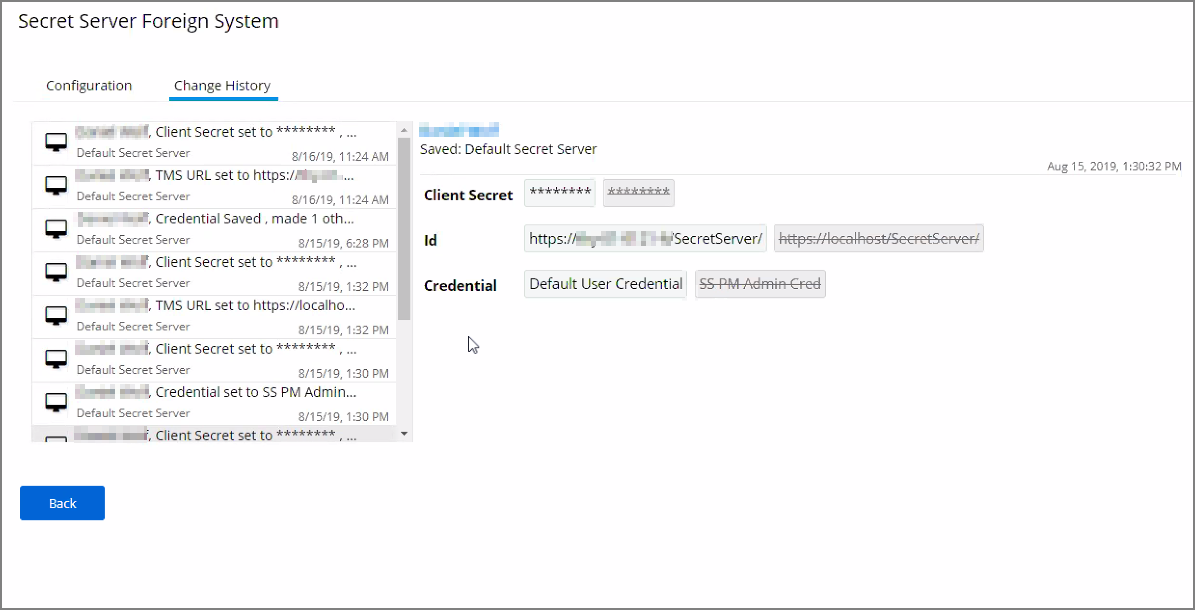
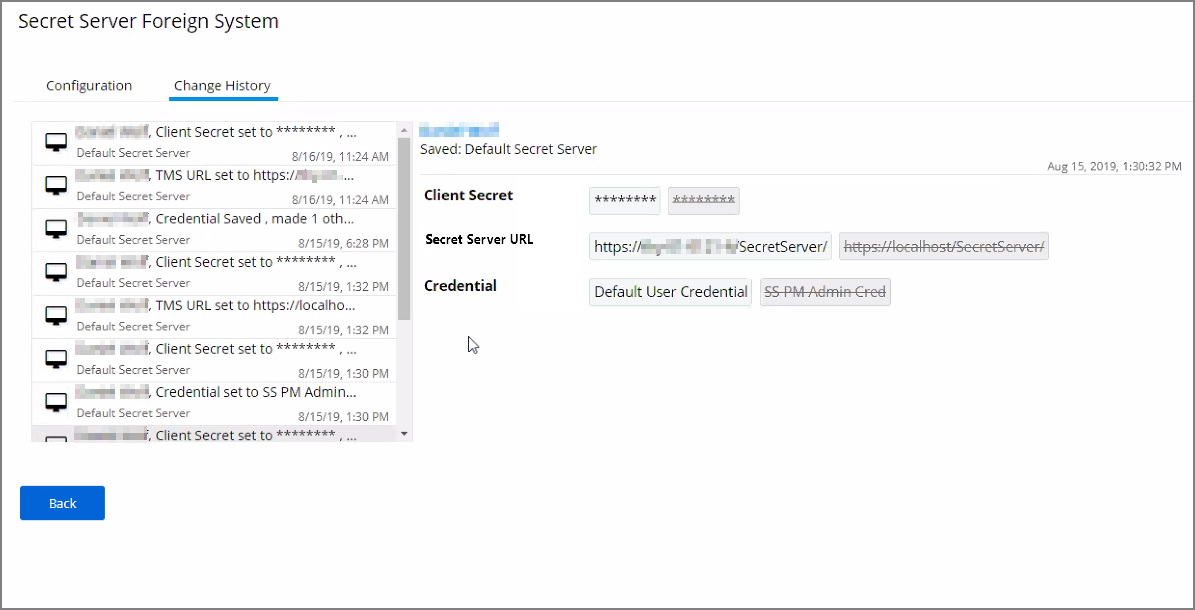
Friday PM commit

Changed region(s): [[0.3406, 0.3738, 0.8669, 0.4984], [0.4335, 0.2803, 0.6192, 0.3426]]

diff --git a/ui/ui-config-history.md b/ui/ui-config-history.md
@@ -1,4 +1,4 @@
-[title]: # (- History Tab)
+[title]: # (> History Tab)
 [tags]: # (user interface,console,overview)
 [priority]: # (2110)
 # History Tab
@@ -7,12 +7,12 @@ The Change History tab is accessible via:
 
 * __Admin | Configuration__ – listing all changes made to Advanced, Discovery, and Reputation item configuration settings.
 * __Admin | Policies__ – listing all changes made to policies.
-* Admin | More and then
-  * __Filters__ – listing all changes made to filters.
-  * __Actions__ – listing all changes made to actions.
-  * __Resources__ – listing all changes made to resources.
-  * __Tasks__ – listing all changes made to tasks.
-* __Tools | File Upload__ – listing all file uploads.
+* Admin | More and then (for the default menu, might differ if customized)
+  * __Filters__ – listing all changes made to a specific filter.
+  * __Actions__ – listing all changes made to a specific action.
+  * __Resources__ – listing all changes made to a specific user editable resource. Meaning resources that are not user editable, like a file extension, do not have a history change tab.
+  * __Tasks__ – listing all changes made to a specific task.
+<!--  * __Tools | File Upload__ – listing all file uploads. -->
 
 Once the tab is selected, it opens a two-column page. On the left all recorded changes are listed with the newest record on top. This left column data provides a summary of the changes:
 
@@ -23,73 +23,42 @@ Once the tab is selected, it opens a two-column page. On the left all recorded c
 
 ## Looking at Details
 
-The following image shows an example of the change history for a foreign system entry. The change shows that the foreign system was pointed at another URL.
+The following image shows an example of the change history for a foreign system entry. The change shows that the foreign system was initially pointed at the local host URL, with a Credential and Client Secret pertaining to that localhost instance. An update was made to configure a real Secret Server instance URL with accompanying changes of Client Secret and Credential to be able to authenticate against that new URL.
 
 ![Change History for Foreign Systems](images/config-history/change-hi-tab-fs-2.png)
 
 ### Drilling Down
 
-To look at details of any given change, select one of the change entries in the left column. Our example shows changes made to an action. Also,
+To look at details of any given change, select one of the change entries in the left column. For the example we created a policy to deny the installation of iTunes on Windows endpoints. 
 
-![](images/config-history/change-hi-tab-details.png)
+![Details on the Change History](images/config-history/change-policy-1.png)
 
-Looking at the first entry at 1:26 PM, we see that a change occurred. Selecting
-the entry provides a summary in the right column providing a further link for
-more details.
+What we see:
 
-![](images/config-history/change-hi-tab-det1.png)
+1. Information about the system and user initiating the change, here WIN-...\TestAdmin and information about the type of change, here Created from template.
+1. The name of the item that was created from template, the date and time when the change ocurred.
+1. Details on the summary information from the left, such as a link to view the user details and what change was done to which item.
 
-Using the link, opens the __Resource Explorer__, which defaults to showing
-__Summary__ information:
+The next screen shows a state change due to the policy being saved. The State\ResourceTargetIds are being saved for the first time for this policy.
 
-* Name – this is the user account that made the change.
-* Created – indicates when the item was created.
-* Modified – indicates when the item was last modified.
+![Change History on item save](images/config-history/change-policy-2.png)
 
-![](images/config-history/change-hi-tab-det2.png)
+The last entry in the Change History list provides all the details about the change to the policy after initial creation and save.
 
-For this example, we conclude from this change history, that the Action __QA
-Deny File Access Action__ is newly created. The down pointing arrows next to
-Known Data, Events, and Associations can be expanded to gain more insight into
-any given change.
+![Change History on item save](images/config-history/change-policy-3.png)
 
-Back at the Change History tab for this action, we select the latest recorded
-change from the left column. The change details indicate that DenyWrite and
-DenyRead for the action where changed from False to True and we see the
-FilePath.
+What we see:
 
-![](images/config-history/change-hi-tab-det3.png)
-
-We click the link to access the Resource Explorer. Under __Known Data__ we can
-explore the information for __Security Management | Global Account Details__.
-
-![](images/config-history/change-hi-tab-det4.png)
-
-Users can select the View from the drop-down and see information on
-
-* AccountDomain – identifies the domain for the user account.
-* Description
-* IsBuiltin – can be true false to indicate if the account in built-in or not.
-* Name – Name associated with the user account.
-* Rid
-* SID
-
-Selecting the Global Windows Users information shows Name, Domain, and UserId.
-
-Under __Events__, we can see __Infrastructure | Resource Discovery__
-information:
-
-![](images/config-history/change-hi-tab-det5.png)
-
-Under __Associations__ we can see __Group Membership__:
-
-![](images/config-history/change-hi-tab-det6.png)
+1. The left-hand summary indicates that Application targets were set to iTunes and three other changes were made.
+1. Application targets (+) iTunes indicates that iTunes was added as an Application target. A (-) would indicate a removal of an application target.
+1. ApplyToResourcesSettings\AllowedTargetRoleTypeId indicated that the previous zero value Id was changed to a value of Computer.
+1. The State\ResourceTargetIds field was populated with the value All Windows Computer with Application Control Agent Installed (Target).
+1. The last change was setting the policy Enabled state to True.
 
 ## Item Change History Report
 
-The __Item Change History Report__ is part of the __Diagnostic__ group on the
-Reports page. You can also search for “change history” and the report will be
-listed on the search results page. Click the link to access the report.
+_TODO: NEW SCREEN CAPTURE of working report with real data._
+The __Item Change History Report__ is part of the __Diagnostic__ group on the Reports page. You can also search for “change history” and the report will be listed on the search results page. Click the link to access the report.
 
 The report lists the history of item changes.
 

diff --git a/reports/reports-queries.md b/reports/reports-queries.md
@@ -1,0 +1,83 @@
+[title]: # (Reports and Queries)
+[tags]: # (overview)
+[priority]: # (7001)
+# Introduction
+
+Each report in Privilege Manager runs a SQL query to return the results. The application does a great job opening the existing queries it uses and generating resolved queries to be used for testing.
+
+This makes it very easy to run Privilege Manager reports – including custom reports – outside of the application in SQL Server Reporting Services, SQL Server Management Services, or your favorite tool.
+
+This topic gives an overview of finding and using the reports and SQL queries built-in to Privilege Manager.
+
+## View the Existing Reports in Privilege Manager
+
+Most users are probably familiar with the main Reports section of Privilege Manager, which is accessible from the menu at the top of any page. This page includes many common reports. There is a __Select Report Options__ button on this page that allows a user to remove reports from this list.
+
+There are many more reports in the product.
+
+To view all the reports in Privilege Manager, navigate to the __ADMIN | Folders | Reports__ tab to see all the reports in a folder tree structure.
+
+![Reports folder tree](images/reports/532d82df04b131cb36a6ed55be309b90.png)
+
+Expand the folder tree to explore the canned reports.
+
+For example, to access the __Application Justification Summary Details Report__, navigate to __Reports | Resource Reports | Resource List Reports | Application Control | Data Class Reports__ and select the __Application Justification Summary Details Report__.
+
+![Example Application Justification Summary Details Report](images/reports/bf3f6267bea061192caebbe4d8855be5.png)
+
+## Determine the SQL Query Object Used by a Report
+
+Every report in Privilege Manager is a single XML object and references a separate XML object that contains the SQL query. By viewing the report object's XML, the SQL query object can be determined.
+
+To view the report as an XML object, change the URL from:
+
+`[Your_TMS_URL]/PrivilegeManager/#/item/__view__/9ba09fa5-ea7e-4352-8400-8eb58b8e41f9`
+
+to:
+`[Your_TMS_URL]/PrivilegeManager/\#/item/__xml__/9ba09fa5-ea7e-4352-8400-8eb58b8e41f9`
+
+![XML view of report](images/reports/e51fd84c2e57e1ac7b0d5e2d0fb34856.png)
+
+Viewing an item as XML helps in determining what folder it is located in (which will be explained in more detail below). Viewing a report as XML also reveals the XML object for the SQL query.
+
+Use your mouse to hover over the guids in the XML to reveal the name of each guid's object. Within the section for ChildAssociations, there will an association for the Report's DataSource. Hovering over the guid for the AssociatedItemId before the Report's Datasource will reveal the report's query.
+
+In the screenshot below, hovering over the guid is 9a3d82a3-c7be-47cc-aa1c-48acc7964620 identified that item as the __Application Justification Summary Details Report Query__.
+
+![GUID hover example](images/reports/f3d961ec9ab5548a433b2feb94f3e3f2.png)
+
+Clicking on this guid will open the XML for the query object in another tab on this same screen:
+
+![Open XML of query object](images/reports/579dda448f0d3b2bc9424ab0454c888b.png)
+
+The XML object for the query includes the direct SQL query that the application runs. However, viewing the query in Privilege Manager will give better query results to work with.
+
+## View the SQL Query in Privilege Manager
+
+The SQL queries can be viewed in Privilege Manager under __ADMIN | Folders__, but it will be helpful to know the folder in which a specific query is located. In the XML object for query, hover over and click on the guid for the FolderId.
+
+![FolderId look up](images/reports/ef0945fb3ccf591adfebc852a04fb3d2.png)
+
+This will open the XML for the folder in which the query is contained. Click on the FolderId to open the XML for its parent folder, and continue until reaching the root folder – which will not have a FolderId attribute. For the SQL queries, the root folder is Queries.
+
+![Root folder](images/reports/b386d777773360a8eb7c44fe3334467f.png)
+
+This XML view now shows the full folder location of this specific query: __Queries | Report Queries | Application Control__.
+
+### Access the Query from the Folder View
+
+Navigate to __ADMIN | Folders__ and select the Reports tab. From the View pull-down, select the Queries View. Then navigate the folder structure determined above: __Queries | Report Queries | Application Control__. Select the Application Justification Report Query from the center pane.
+
+![Opening the report query from the folder view](images/reports/ccfc56dcd0aa64a25ccb3352c22fce4e.png)
+
+View this query object. The Query tab will show the SQL query that the application runs. This is the same query that appears in the XML of the object.
+
+### Obtain a Resolved Query
+
+The Resolved Query tab will give queries that can be used directly on the database to return the similar results that the application receives when it runs the query in the object. This makes it easy to run these queries – or customization of them – in SQL Server Reporting Services.
+
+On the Resolved Query tab, checking the box to __Show Output as Executable Anonymous Block__ will assign values to the Parameters the query uses. For the __Value Set__ pull-down, select __Test__ to assign the Parameters with appropriate values to run this query directly on your database.
+
+![Obtaining a resolved query](images/reports/94fd3a8b59bdb60252cd73378f0b33e1.png)
+
+Click __Copy To Clipboard__ and then paste the resolved query in SSRS, SSMS, or your favorite tool.

diff --git a/install/agent-inst-win.md b/install/agent-inst-win.md
@@ -15,7 +15,7 @@ There are three agents available for Windows endpoints:
 
 This bundled EXE installer is recommended when installing Privilege Manager on machines one at a time, for deployments through software delivery see the next section. This installer includes all Privilege Manager Agents for Windows machines (Core, ACS, LSS). You can use this installer directly on individual endpoints for testing or for production environments in either 32-bit or 64-bit environments:
 
-* Bundled Agent Installer: https://tmsnuget.thycotic.com/Software/Agents/ThycoticAgentsInstaller_x86_10_6_1080.exe
+* Bundled Agent Installer: https://tmsnuget.thycotic.com/software/Agents/ThycoticAgentsInstaller_x86_10_6_1080.exe
 
 ## Individual Agent Installers for Privilege Manager
 
@@ -24,11 +24,11 @@ This bundled EXE installer is recommended when installing Privilege Manager on m
 Individual Windows agents are available in MSI format for easier bulk-rollout through software delivery tools. For installing individual agents, begin with the Core Thycotic Agent:
 
 * __Core Thycotic Agent (x64)__:
-  https://tmsnuget.thycotic.com/Software/Agents/ThycoticAgent_x64_10_6_1080.msi
+  https://tmsnuget.thycotic.com/software/Agents/ThycoticAgent_x64_10_6_1080.msi
 * __Application Control Agent (x64)__:
-  https://tmsnuget.thycotic.com/Software/Agents/Thycotic_ApplicationControlAgent_x64_10_5_1080.msi
+  https://tmsnuget.thycotic.com/software/Agents/Thycotic_ApplicationControlAgent_x64_10_5_1080.msi
 * __Local Security Solution Agent (x64)__:
-  https://tmsnuget.thycotic.com/Software/Agents/Thycotic_LocalSecurityAgent_x64_10_6_1025.msi
+  https://tmsnuget.thycotic.com/software/Agents/Thycotic_LocalSecurityAgent_x64_10_6_1025.msi
 
 #### Installation Command Lines
 
@@ -53,11 +53,11 @@ Individual Windows agents are available in MSI format for easier bulk-rollout th
 Individual Windows agents are available in MSI format for easier bulk-rollout through software delivery tools. For installing individual agents, begin with the Core Thycotic Agent:
 
 * Core Thycotic Agent __(x86)__:
-  https://tmsnuget.thycotic.com/Software/Agents/ThycoticAgent_x86_10_6_1080.msi
+  https://tmsnuget.thycotic.com/software/Agents/ThycoticAgent_x86_10_6_1080.msi
 * Application Control Agent __(x86)__:
-  https://tmsnuget.thycotic.com/Software/Agents/Thycotic_ApplicationControlAgent_x86_10_6_1080.msi
+  https://tmsnuget.thycotic.com/software/Agents/Thycotic_ApplicationControlAgent_x86_10_6_1080.msi
 * Local Security Solution Agent __(x86)__:
-  https://tmsnuget.thycotic.com/Software/Agents/Thycotic_LocalSecurityAgent_x86_10_6_1025.msi
+  https://tmsnuget.thycotic.com/software/Agents/Thycotic_LocalSecurityAgent_x86_10_6_1025.msi
 
 #### Installation Command Lines
 

diff --git a/ui/ui-resource-explorer.md b/ui/ui-resource-explorer.md
@@ -1,0 +1,39 @@
+[title]: # (- Resource Explorer)
+[tags]: # (details)
+[priority]: # (2110)
+# Resource Explorer
+
+When you are looking at change history for any item and click the view user link, you access the __Resource Explorer__.
+Which defaults to showing __Summary__ information pertaining to that specific user resource:
+
+* Name – this is the user account that made the change.
+* Created – indicates when the item was created.
+* Modified – indicates when the item was last modified.
+
+The resource explorer is providing information about the current state of a resource.
+
+![](images/config-history/change-hi-tab-det2.png)
+
+Under __Known Data__ we can explore the information for __Security Management | Global Account Details__.
+
+![Known Data](images/config-history/change-hi-tab-det4.png)
+
+Users can select the View from the drop-down and see information on the type of the resource. The type of known data can be different based on resource type, or based on events discovered on endpoints, for example:
+
+* AccountDomain – identifies the domain for the user account.
+* Description
+* IsBuiltin – can be true false to indicate if the account in built-in or not.
+* Name – Name associated with the user account.
+* Rid
+* SID
+
+Selecting the Global Windows Users information shows Name, Domain, and UserId.
+
+Under __Events__, we can see __Infrastructure | Resource Discovery__
+information:
+
+![Events](images/config-history/change-hi-tab-det5.png)
+
+Under __Associations__ we can see related items, such as __Group Membership__, which is based on the users credentials:
+
+![Associations](images/config-history/change-hi-tab-det6.png)

diff --git a/install/upgrades.md b/install/upgrades.md
@@ -3,6 +3,16 @@
 [priority]: # (700)
 # Product Upgrades
 
+Once Privilege Manager is installed on a server, updates can be performed by pointing the web.config file to the product NuGet source.
+
+1. Navigate to `C:\inetpub\wwwroot\TMS\` and right-click the web.config file.
+1. Select Edit from the drop-down.
+1. Verify the following line with correct NuGet source is present:
+
+   ```xml
+   <add key="nuget:source:SolutionCentre" value="http://tmsnuget.thycotic.com/nuget/" />`
+   ```
+
 <!-- TODO add missing information
 * reference correct SecretServer version for combined installs
 * update all version references
@@ -38,7 +48,7 @@ Follow these steps to perform an offline upgrade for Privilege Manager and Secre
 Note: The TMS setup page requires authentication with a Windows account that is a Local Administrator of the Web Server
 1. You may see a page that looks like the image below.  If so, click the Use Local (Cached) Product Options Button
 1. IMPORTANT: Do not ignore this step, even if you see the list of products:
-   1. Open the web.config file in the TMS web folder (`C:>inetpub>wwwroot>TMS>`"Web" or "Web.config"), right click and open with Notepad, Run as Administrator
+   1. Open the web.config file in the TMS web folder (`C:\inetpub\wwwroot\TMS\`"Web" or "Web.config"), right click and open with Notepad, Run as Administrator
    1. Delete the line that says: `<add key="nuget:source:SolutionCentre" value="http://tmsnuget.thycotic.com/nuget/" />`
    1. Replace with your offline nugetCache directory file path. (For example: `<add key="nuget:source:SolutionCentre" value="C:\ProgramData\NugetCache\")`
    1. Save the web.config file

diff --git a/policies/bl-iTunes-file-up.md b/policies/bl-iTunes-file-up.md
@@ -9,13 +9,21 @@ First create the iTunes filter by using downloaded iTunes files:
 
 1. On the Application Control dashboard home page, select the __Upload File__ tile.
 1. Browse to select file (i.e. the iTunes installer), click __Upload File__.
+
+   ![Upload a File](images/block/file_upload.png)
 1. When the file successfully uploads, choose __Go to File Details__.
-1. Click __Add New Filter__. Check the Filter criteria you want to block like the File Name, the Original File Name, and the Product Name.
+
+   ![File uploaded successfully](images/block/file_upload_2.png)
+1. Click __Add New Filter__. 
+
+   ![Add the new Filter](images/block/file_upload_3.png)
+1. Check, modify, and/or enter the Filter criteria you want to block like the File Name, the Original File Name, and the Product Name.
 1. Click __Create__.
 
 Next create the iTunes Blacklist Policy:
 
 1. Click on the __Deny (Blacklist) Applications__ tile on the Application Control dashboard.
+1. Click __Create a New Policy__.
 1. Select a __Platform__, then __Blacklist: Deny Specific Applications__.
 1. Add Name and Description, click __Create__.
 1. In the __Advanced Policy View__ under the __Conditions__ tab, select __Edit__.

diff --git a/ui/ui-config-roles-user-credentials.md b/ui/ui-config-roles-user-credentials.md
@@ -9,3 +9,6 @@ The role for the Privilege Manager Administrator gives permissions to manage all
 
 For integrations with Secret Server keep in mind that Privilege Manger has the ability to use Secret Server as its storage container for credentials. This includes credentials for connecting to integrated systems such as Service Now, as well as credentials for local accounts that are managed by Local Security in Privilege Manager. Customers can choose to integrate with Secret Server only (no Vault setup) or Secret Server and Vault. Either option requires Authentication Data setup for Foreign Systems in Privilege Manager. Refer to the [Setting up Integration between Privilege Manager and Secret Server](../integration/set-up-pm-ss-integration.md) topic.
 
+## Create User during Installation
+
+During the installation process the Create User page is where you enter information for the initial Privilege Manager Administrator user. Please remember these credentials as they are necessary to login to the web application after you complete the installation.

diff --git a/reports/index.md b/reports/index.md
@@ -3,4 +3,8 @@
 [priority]: # (7000)
 # Reports
 
-In the top menu, click the Reports tab for a list of relevant out-of-the-box reports that span a spectrum of system activity and diagnostic information in Privilege Manager. Click on the name of any of these reports to access details about your system.
+Privilege Manager includes an array of reports. To access reports navigate to the top menu, click the Reports tab for a list of relevant out-of-the-box reports that span a spectrum of system activity and diagnostic information in Privilege Manager. Click on the name of any of these reports to access details about your system.
+
+The following topics are available:
+
+* [Reports and SQL Queries in Privilege Manager](reports-queries.md)

diff --git a/ui/ui-config-roles.md b/ui/ui-config-roles.md
@@ -5,6 +5,9 @@
 
 The following Privilege Manager roles are available by default and it is possible to add to or remove members from these roles. Privilege Manager also allows the creation of new roles, if a customer environment requires more role support.
 
+>**Note**:
+>Privilege Manager manages the roles of users accessing the console, unless Privilege Manager is connected to Secret Server. When connected to Secret Server, role membership is controlled by Secret Server.
+
 All these roles are considered application role permissions.
 
 ## Privilege Manager Administrators

diff --git a/install/agent-inst-mac.md b/install/agent-inst-mac.md
@@ -11,7 +11,7 @@ The Bundled Mac Agent DMG + PKG installer is available for Mac machines. You can
 
 ### Privilege Manager Mac Agent
 
-https://tmsnuget.thycotic.com/Software/Agents/ThycoticManagementAgent-10.6.20.dmg
+https://tmsnuget.thycotic.com/software/Agents/ThycoticManagementAgent-10.6.20.dmg
 
 ### Installating Mac Agent Directly
 
